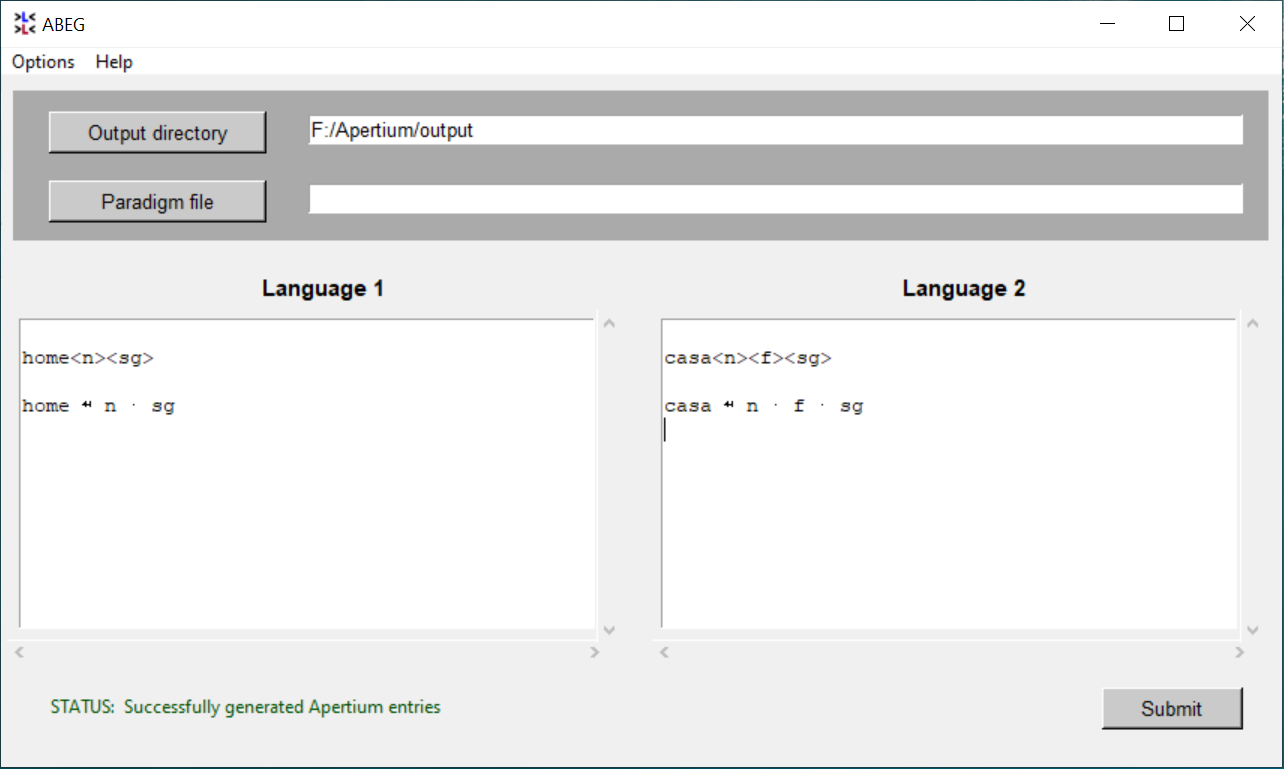
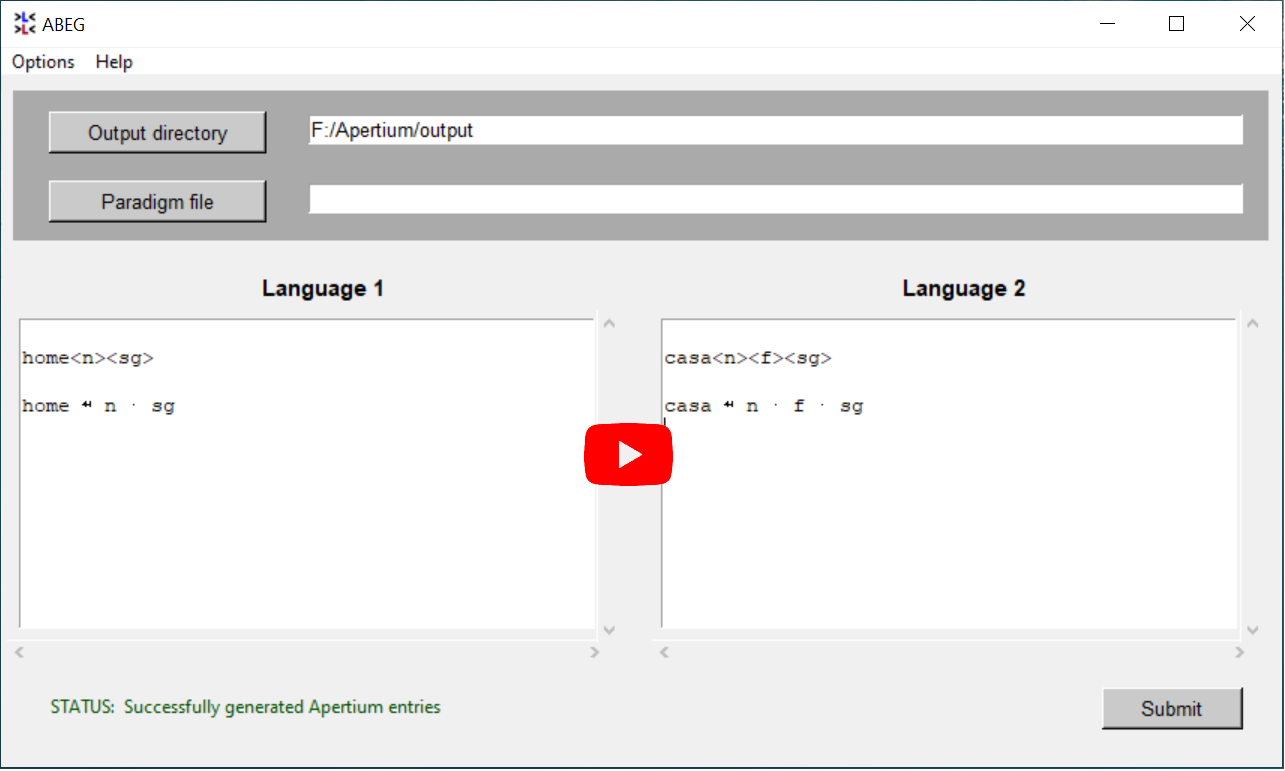
Tutorial link

Changed region(s): [[0.4358, 0.5292, 0.5292, 0.6537]]

diff --git a/README.md b/README.md
@@ -2,11 +2,10 @@
 Apertium Bilingual Entry Generator
 
 
-![alt text](screenshot.png)
+
+Video tutorial link:
+
+[![Watch the video](https://github.com/nehalkalita/ABEG/blob/main/screenshot.png)](https://www.youtube.com/watch?v=AgFNe2tKhJw)
 
 Non Windows users can run the 'ABEG.py' file from 'code' directory.
 
-.
-.
-.
-### Tutorial Coming Soon
